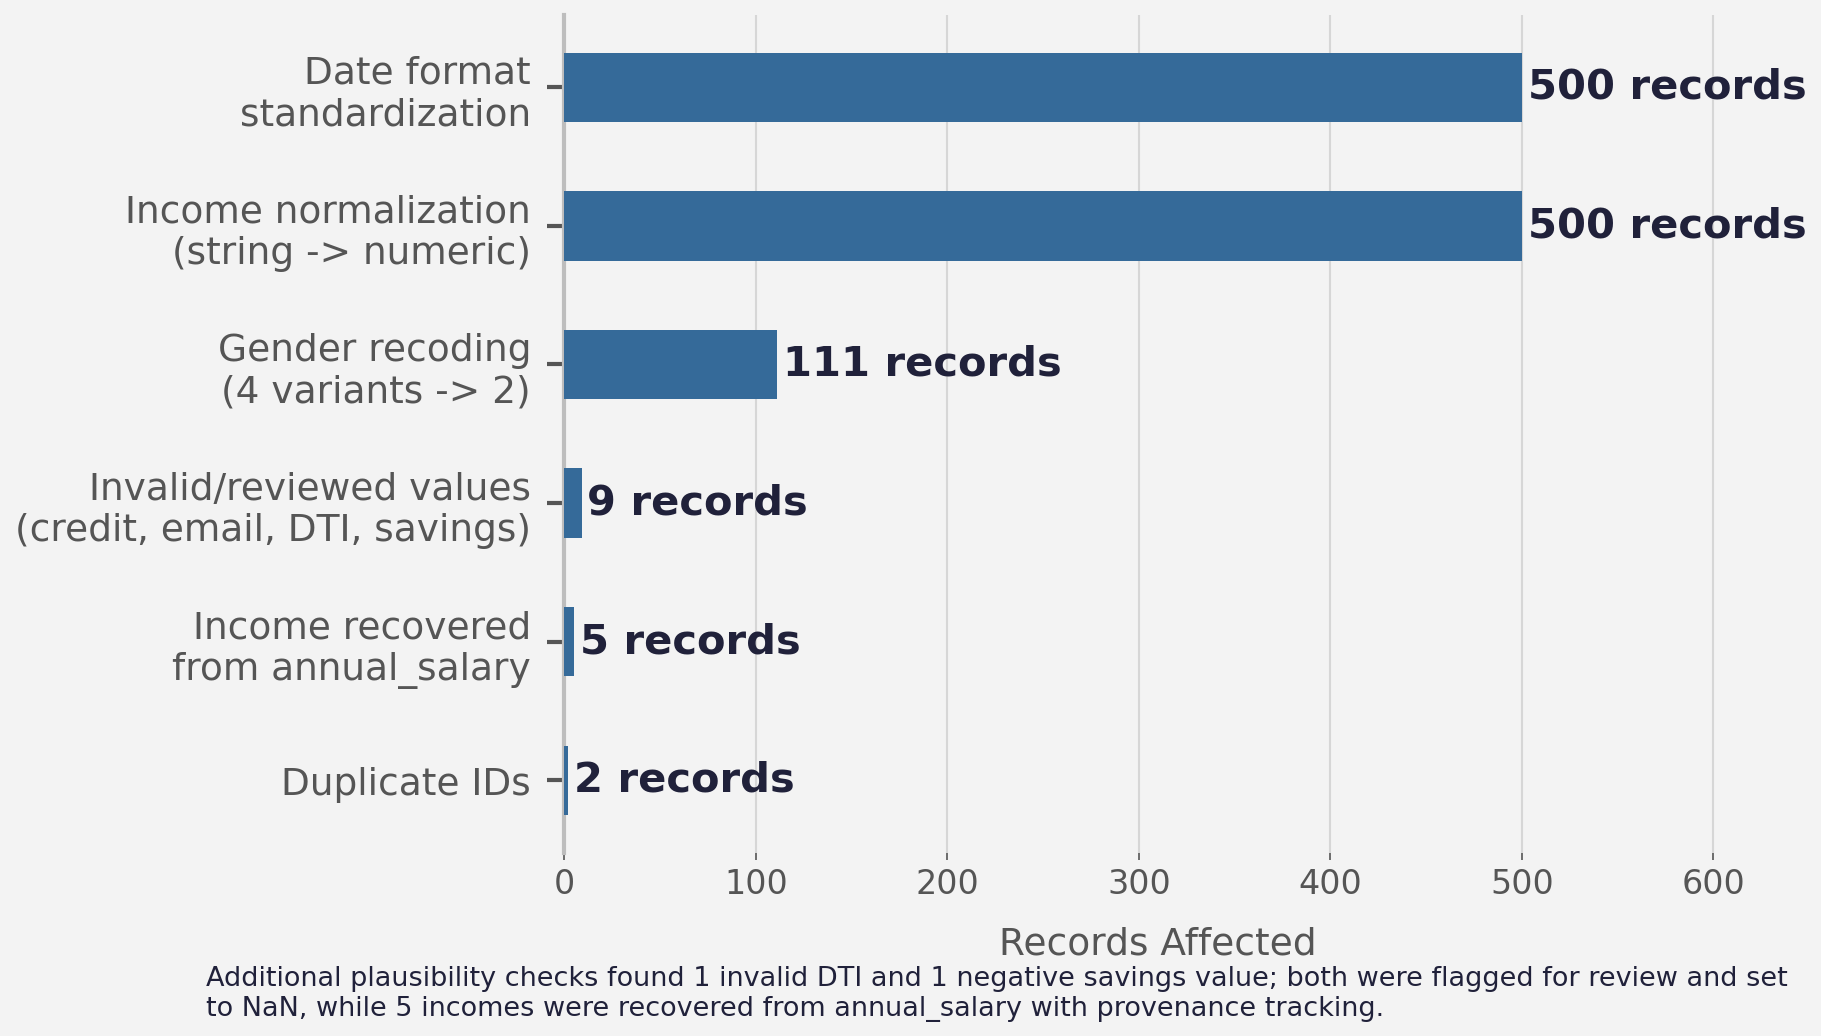
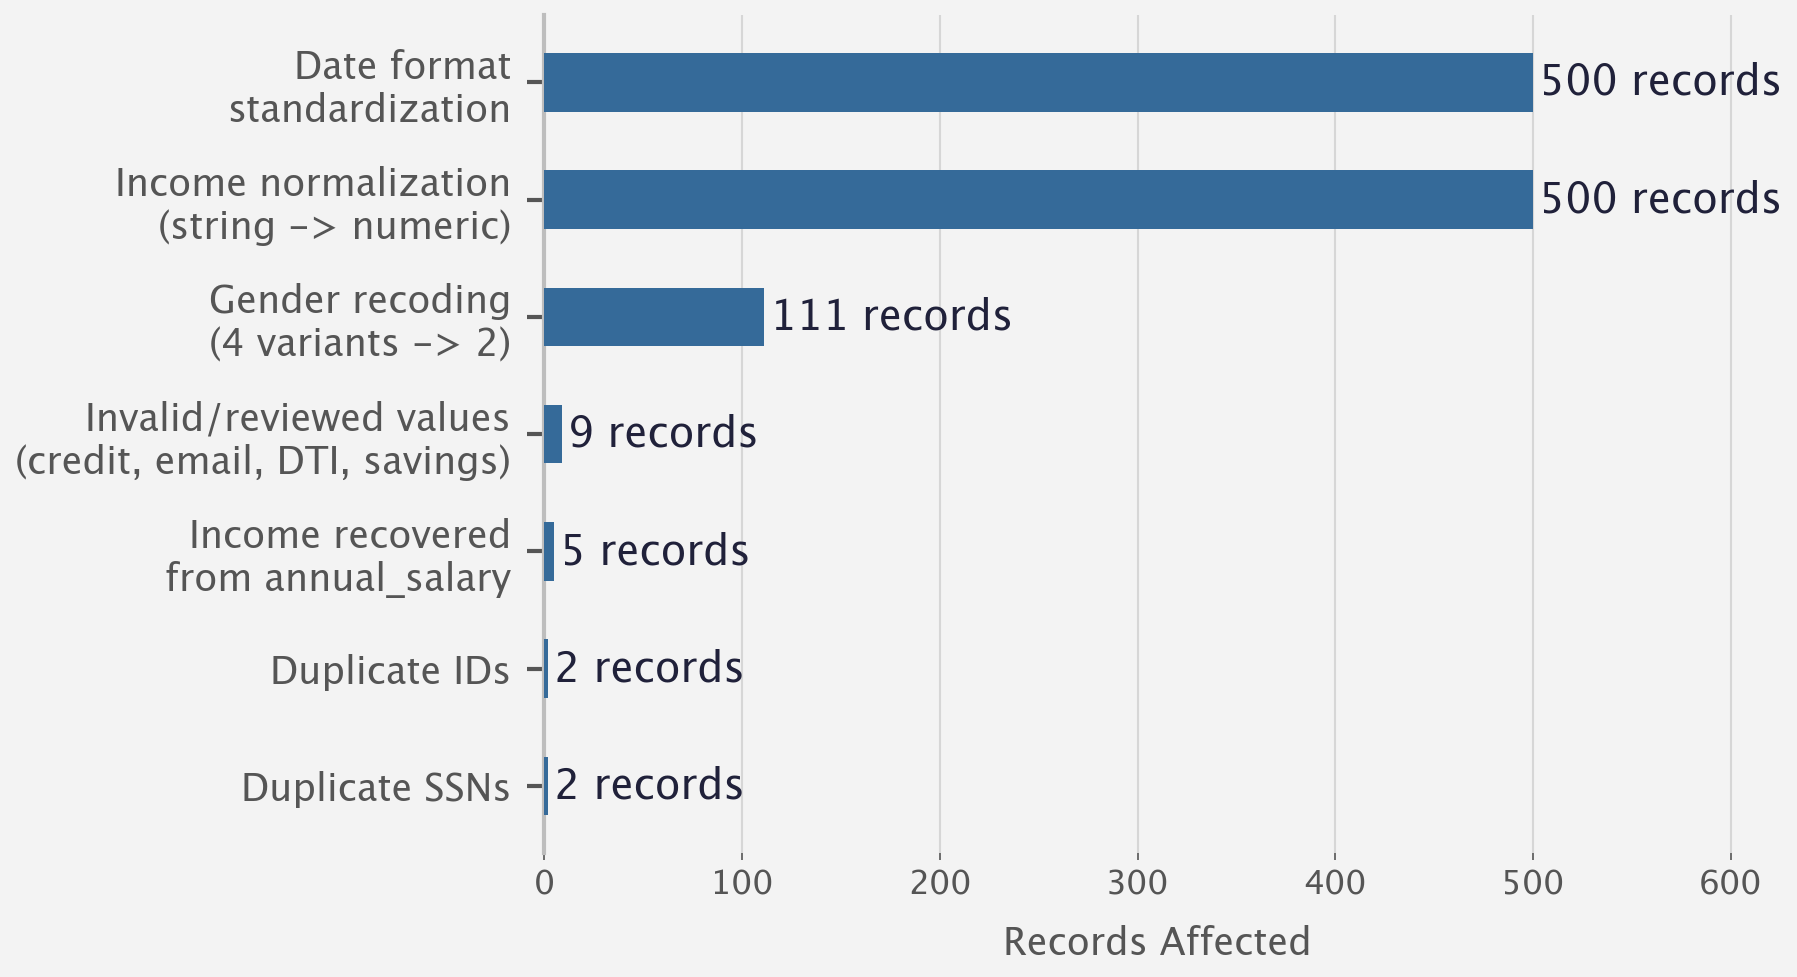
Added Video Link and Updated last charts for presentation

diff --git a/presentation/build_data_quality_chart.py b/presentation/build_data_quality_chart.py
@@ -39,6 +39,8 @@ def main() -> None:
         + count_true_flags(clean["savings_review_flag"])
     )
 
+    duplicate_ssns = 2
+
     labels = [
         "Date format\nstandardization",
         "Income normalization\n(string -> numeric)",
@@ -46,6 +48,7 @@ def main() -> None:
         "Invalid/reviewed values\n(credit, email, DTI, savings)",
         "Income recovered\nfrom annual_salary",
         "Duplicate IDs",
+        "Duplicate SSNs",
     ]
     values = [
         date_standardized,
@@ -54,6 +57,7 @@ def main() -> None:
         invalid_or_reviewed,
         income_recovered,
         duplicate_ids_removed,
+        duplicate_ssns,
     ]
 
     fig, ax = plt.subplots(figsize=(12, 7))
@@ -87,19 +91,6 @@ def main() -> None:
     ax.spines["bottom"].set_visible(False)
     ax.spines["left"].set_color("#bdbdbd")
     ax.spines["left"].set_linewidth(2)
-
-    fig.text(
-        0.12,
-        0.02,
-        "Additional plausibility checks found 1 invalid DTI and 1 negative savings value; "
-        "both were flagged for review and set to NaN, while 5 incomes were recovered from "
-        "annual_salary with provenance tracking.",
-        ha="left",
-        va="bottom",
-        fontsize=13,
-        color=TEXT,
-        wrap=True,
-    )
 
     plt.tight_layout()
     plt.subplots_adjust(bottom=0.18)

diff --git a/README.md b/README.md
@@ -13,6 +13,7 @@ This report presents the findings of a data governance audit conducted on NovaCr
 
 - [Team Members](#team-members)
 - [Project Description](#project-description)
+- [Presentation Video](#presentation-video)
 - [Data Quality Findings](#data-quality-findings)
 - [Bias Detection & Fairness](#bias-detection--fairness)
 - [Governance Recommendations](#governance-recommendations)
@@ -32,6 +33,10 @@ This report presents the findings of a data governance audit conducted on NovaCr
 
 ## Project Description
 NovaCred is a fintech startup that uses machine learning to make credit decisions. Following a regulatory inquiry about potential discrimination in their lending practices, our team was hired to audit the data for quality issues, detect bias patterns in historical decisions, propose governance controls, and demonstrate compliance with GDPR and AI Act requirements.
+
+## Presentation Video
+
+[Watch the project video presentation](https://youtu.be/jfb5Onc2HLQ)
 
 ## Data Quality Findings
 
